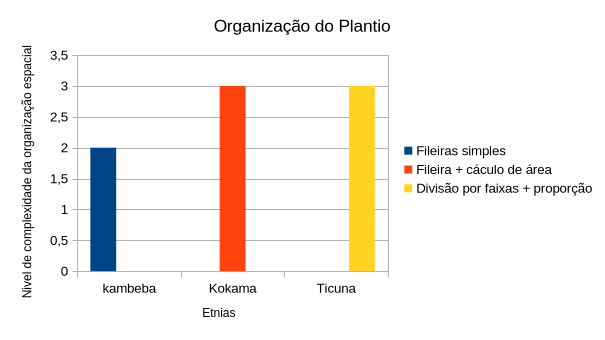
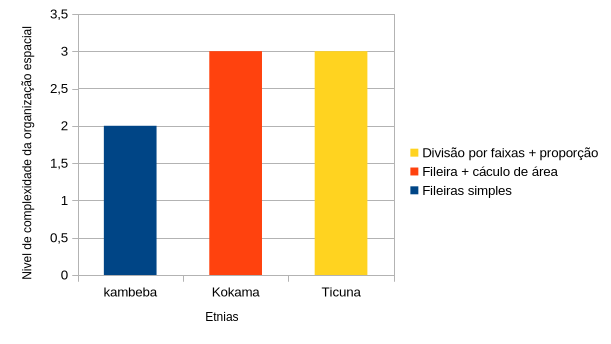
Corrigindo erros no formulário

diff --git a/pagina5.html b/pagina5.html
@@ -44,42 +44,85 @@
 
                <h1>Comparações e Representações Gráficas Sobre a Agricultura</h1>
 
-                <li>Semelhanças</li>
+                <h3 class="subtitulo">Semelhanças</h3>
 
-                    <div class="container">
-                        <div class="image-box"><img src="graficos-comparaçoes/mediçoes.png"></div>
-                        <p>Este gráfico apresenta uma comparação entre as etnias Kambeba, Kokama e Ticuna quanto ao uso de medidas não padronizadas na agricultura. Observa-se que todas utilizam o corpo como principal instrumento de medição, especialmente por meio de passos, demonstrando uma matemática prática baseada na experiência.</p>
-                    </div>
-                     <p>A etnia Kambeba utiliza principalmente passos e braços como referência para organizar o plantio. Já os Kokama, além do uso de passos, realizam a conversão dessas medidas para unidades formais, como o metro, estabelecendo uma relação entre saber tradicional e matemática convencional. Os Ticuna apresentam maior diversidade de métodos, incluindo passos, observação visual, sombra do corpo e elementos naturais como cipós.</p>
-                        <p>
+                <h4>Métodos de Medição Utilizados pelas Etnias</h4>
+
+                        <div class="grafico">
+                            <img src="graficos-comparaçoes/mediçoes-.png"></div>
+                       
+                     <p>
+                        Este gráfico apresenta uma comparação entre as etnias Kambeba, Kokama e Ticuna quanto ao uso de medidas não padronizadas na agricultura. Observa-se que todas utilizam o corpo como principal instrumento de medição, especialmente por meio de passos, demonstrando uma matemática prática baseada na experiência.</p>
+                     <p>
+                        A etnia Kambeba utiliza principalmente passos e braços como referência para organizar o plantio. Já os Kokama, além do uso de passos, realizam a conversão dessas medidas para unidades formais, como o metro, estabelecendo uma relação entre saber tradicional e matemática convencional. Os Ticuna apresentam maior diversidade de métodos, incluindo passos, observação visual, sombra do corpo e elementos naturais como cipós.</p>
+                    <p>
                         O gráfico evidencia que, embora não utilizem instrumentos padronizados como réguas ou trenas, todas as etnias aplicam conceitos matemáticos como medidas de comprimento, estimativas e, em alguns casos, conversão de unidades. Esses conhecimentos são fundamentais para o planejamento agrícola e são transmitidos de geração em geração.
                         </p>
-                        <hr>
-                        <h4 class="titulo-centralizado">Organização do Plantio</h4>
+                      
+                        <h4>Organização do Plantio</h4>
 
                     <div class="grafico">
                         <img src="graficos-comparaçoes/plantio.png" alt="organizaçao do plantio">
                     </div>
                           
-                            <p>
-                                Este gráfico representa a forma como as etnias organizam espacialmente suas plantações, evidenciando o uso de conceitos matemáticos no planejamento agrícola. </p>
+                        <p>
+                            Este gráfico representa a forma como as etnias organizam espacialmente suas plantações, evidenciando o uso de conceitos matemáticos no planejamento agrícola. </p>
 
+                        <p>
+                            A etnia Kambeba organiza o plantio em fileiras, utilizando o espaçamento entre as plantas para garantir seu crescimento adequado. Esse método demonstra uma aplicação prática de divisão do espaço e distribuição linear. 
+                        </p>
+                        <p>
+                            Os Kokama, além de utilizarem fileiras, realizam cálculos mais estruturados, como a quantidade de plantas por fileira e a área total do terreno. Isso evidencia o uso de multiplicação, divisão e noções de área no planejamento da roça.
+                            Já os Ticuna organizam o terreno em faixas destinadas a diferentes culturas, como milho, mandioca e batata-doce. Essa divisão segue proporções específicas, demonstrando um uso mais complexo da geometria e da organização espacial.
+                        </p>
+                        <p>
+                            De modo geral, o gráfico mostra que, mesmo sem o uso de fórmulas matemáticas formais, as três etnias aplicam conceitos como área, distribuição espacial e proporcionalidade, fundamentais para o uso eficiente do solo.
+                            </p>
+
+                    <h4>Uso de Proporções</h4>
+
+                    <div class="grafico">
+                        <img src="graficos-comparaçoes/proporçoes.png" alt="">
+                    </div>
+
+                        <p>
+                            Este gráfico apresenta como as etnias utilizam o conceito de proporção em suas práticas agrícolas, evidenciando a presença da matemática no planejamento da produção.</p>
 
                             <p>
-                                A etnia Kambeba organiza o plantio em fileiras, utilizando o espaçamento entre as plantas para garantir seu crescimento adequado. Esse método demonstra uma aplicação prática de divisão do espaço e distribuição linear. 
-                            </p>
+                                A etnia Kambeba aplica a proporcionalidade de forma prática ao relacionar o espaço disponível com a quantidade de plantas cultivadas, ajustando o plantio conforme o tamanho do terreno.</p>
                             <p>
-                                Os Kokama, além de utilizarem fileiras, realizam cálculos mais estruturados, como a quantidade de plantas por fileira e a área total do terreno. Isso evidencia o uso de multiplicação, divisão e noções de área no planejamento da roça.
-                                Já os Ticuna organizam o terreno em faixas destinadas a diferentes culturas, como milho, mandioca e batata-doce. Essa divisão segue proporções específicas, demonstrando um uso mais complexo da geometria e da organização espacial.
-                            </p>
+                                Os Kokama utilizam proporções de maneira mais estruturada, especialmente na produção de farinha, ao estabelecer relações entre o número de fornadas e a quantidade produzida em litros. Esse tipo de cálculo permite prever a produção com maior precisão.</p>
                             <p>
-                                De modo geral, o gráfico mostra que, mesmo sem o uso de fórmulas matemáticas formais, as três etnias aplicam conceitos como área, distribuição espacial e proporcionalidade, fundamentais para o uso eficiente do solo.
-                             </p>
+                                Já os Ticuna utilizam proporções diretamente no plantio, como na relação entre diferentes culturas, por exemplo, três partes de milho para uma parte de mandioca. Essa organização garante melhor aproveitamento do espaço e do tempo de cultivo.</p>
+                            <p>
+                                De forma geral, o gráfico evidencia que, embora utilizem estratégias distintas, as três etnias aplicam o conceito de razão e proporção para organizar a produção agrícola, demonstrando uma compreensão matemática construída a partir da prática e da observação.</p>
+
+                    <h3 class="subtitulo">Diferenças</h3>
+
+                    <h4>Tipos de conhecimentos matemáticos
+</h4>
+
+                    <div class="grafico">
+                        <img src="graficos-comparaçoes/conhecimento-mat.png" alt="">
+                    </div>
+
+                    <p>
+                        Este gráfico apresenta as diferenças no nível de sistematização matemática entre as etnias, evidenciando distintas formas de aplicação da matemática na agricultura.</p>
+                    <p>
+                        A etnia Kambeba utiliza uma matemática mais direta e prática, relacionada ao cotidiano do plantio, como a contagem de plantas, o espaçamento e a estimativa de produção. Esses processos não são realizados por meio de cálculos formais, mas fazem parte de um conhecimento construído pela experiência e pela observação.</p>
+                    <p>
+                        Os Kokama demonstram uma organização mais estruturada em suas práticas, envolvendo relações entre quantidades, proporções e até equivalências entre medidas. Embora não utilizem fórmulas matemáticas de forma explícita, suas práticas revelam um raciocínio que pode ser interpretado como uma forma de modelagem matemática.</p>
+                    <p>
+                        Já os Ticuna apresentam uma abordagem mais voltada à geometria e à organização espacial, utilizando formas, medidas e estruturas físicas nos processos agrícolas e na produção de farinha. Esses conhecimentos também não são formalizados em cálculos escritos, mas evidenciam uma compreensão prática do espaço e das medidas.</p>
+                    <p>
+                        O gráfico evidencia que, embora essas etnias não utilizem a matemática de maneira formal ou escolar, suas práticas cotidianas revelam conhecimentos matemáticos importantes, desenvolvidos de forma intuitiva e transmitidos entre gerações, com ênfase em diferentes áreas, como cálculo, proporção e geometria.</p>
+
 
 
             <p><a href="index.html" rel="prev">Voltar para a primeira página.</a></p>
         </div>
     </main>
+
             <footer class="footer-home">
 
             <div class="footer-logos">

diff --git a/pag-etnias.css b/pag-etnias.css
@@ -36,6 +36,14 @@
     .etnia h3{
       font-size: 25px;
     }
+    .subtitulo{
+      padding: 15px 0px;
+    }
+    .etnia h4{
+      text-align: center;
+      padding: 5px;
+    }
+
     .italico{
       font-style: italic;
       font-size: 18px;
@@ -129,8 +137,12 @@
         border-radius: 10px;
     }
 
-    div.grafico{
-      align-items: center;
+    div.grafico img{
+      display: block;
+      margin: 0 auto;
+      width: 100%;
+      max-width: 500px;
+      height: auto;
     }
 
      @media (max-width: 950px) {
